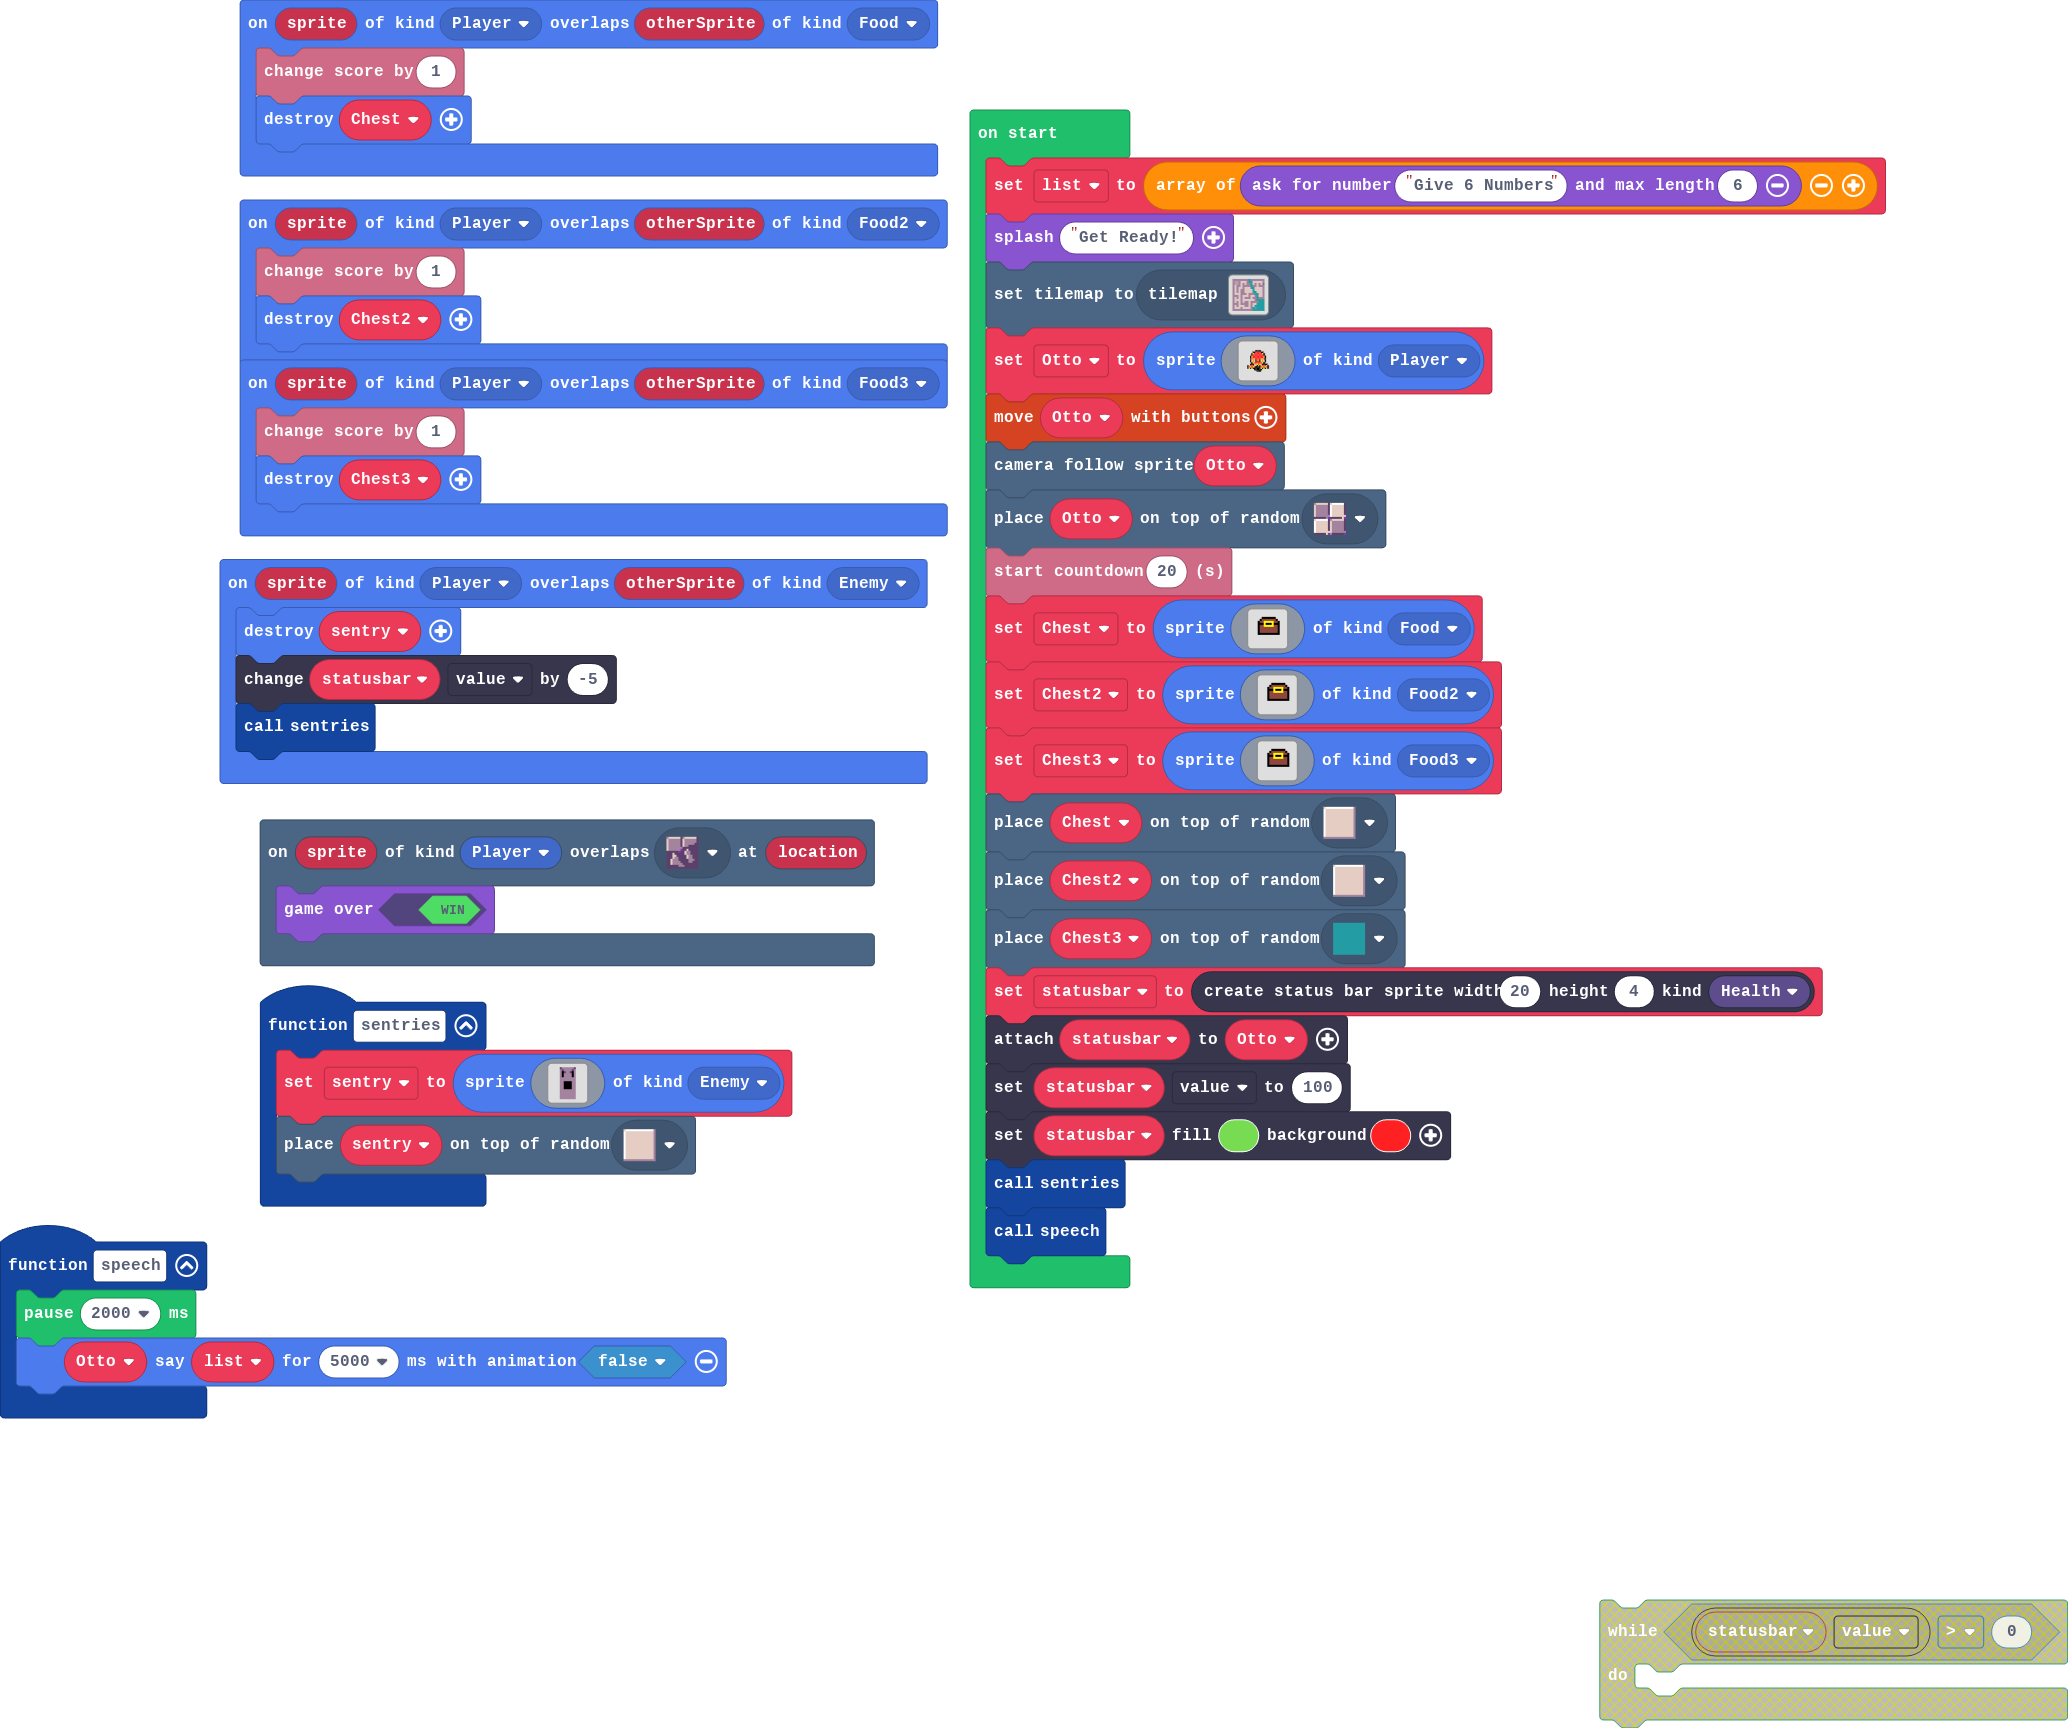
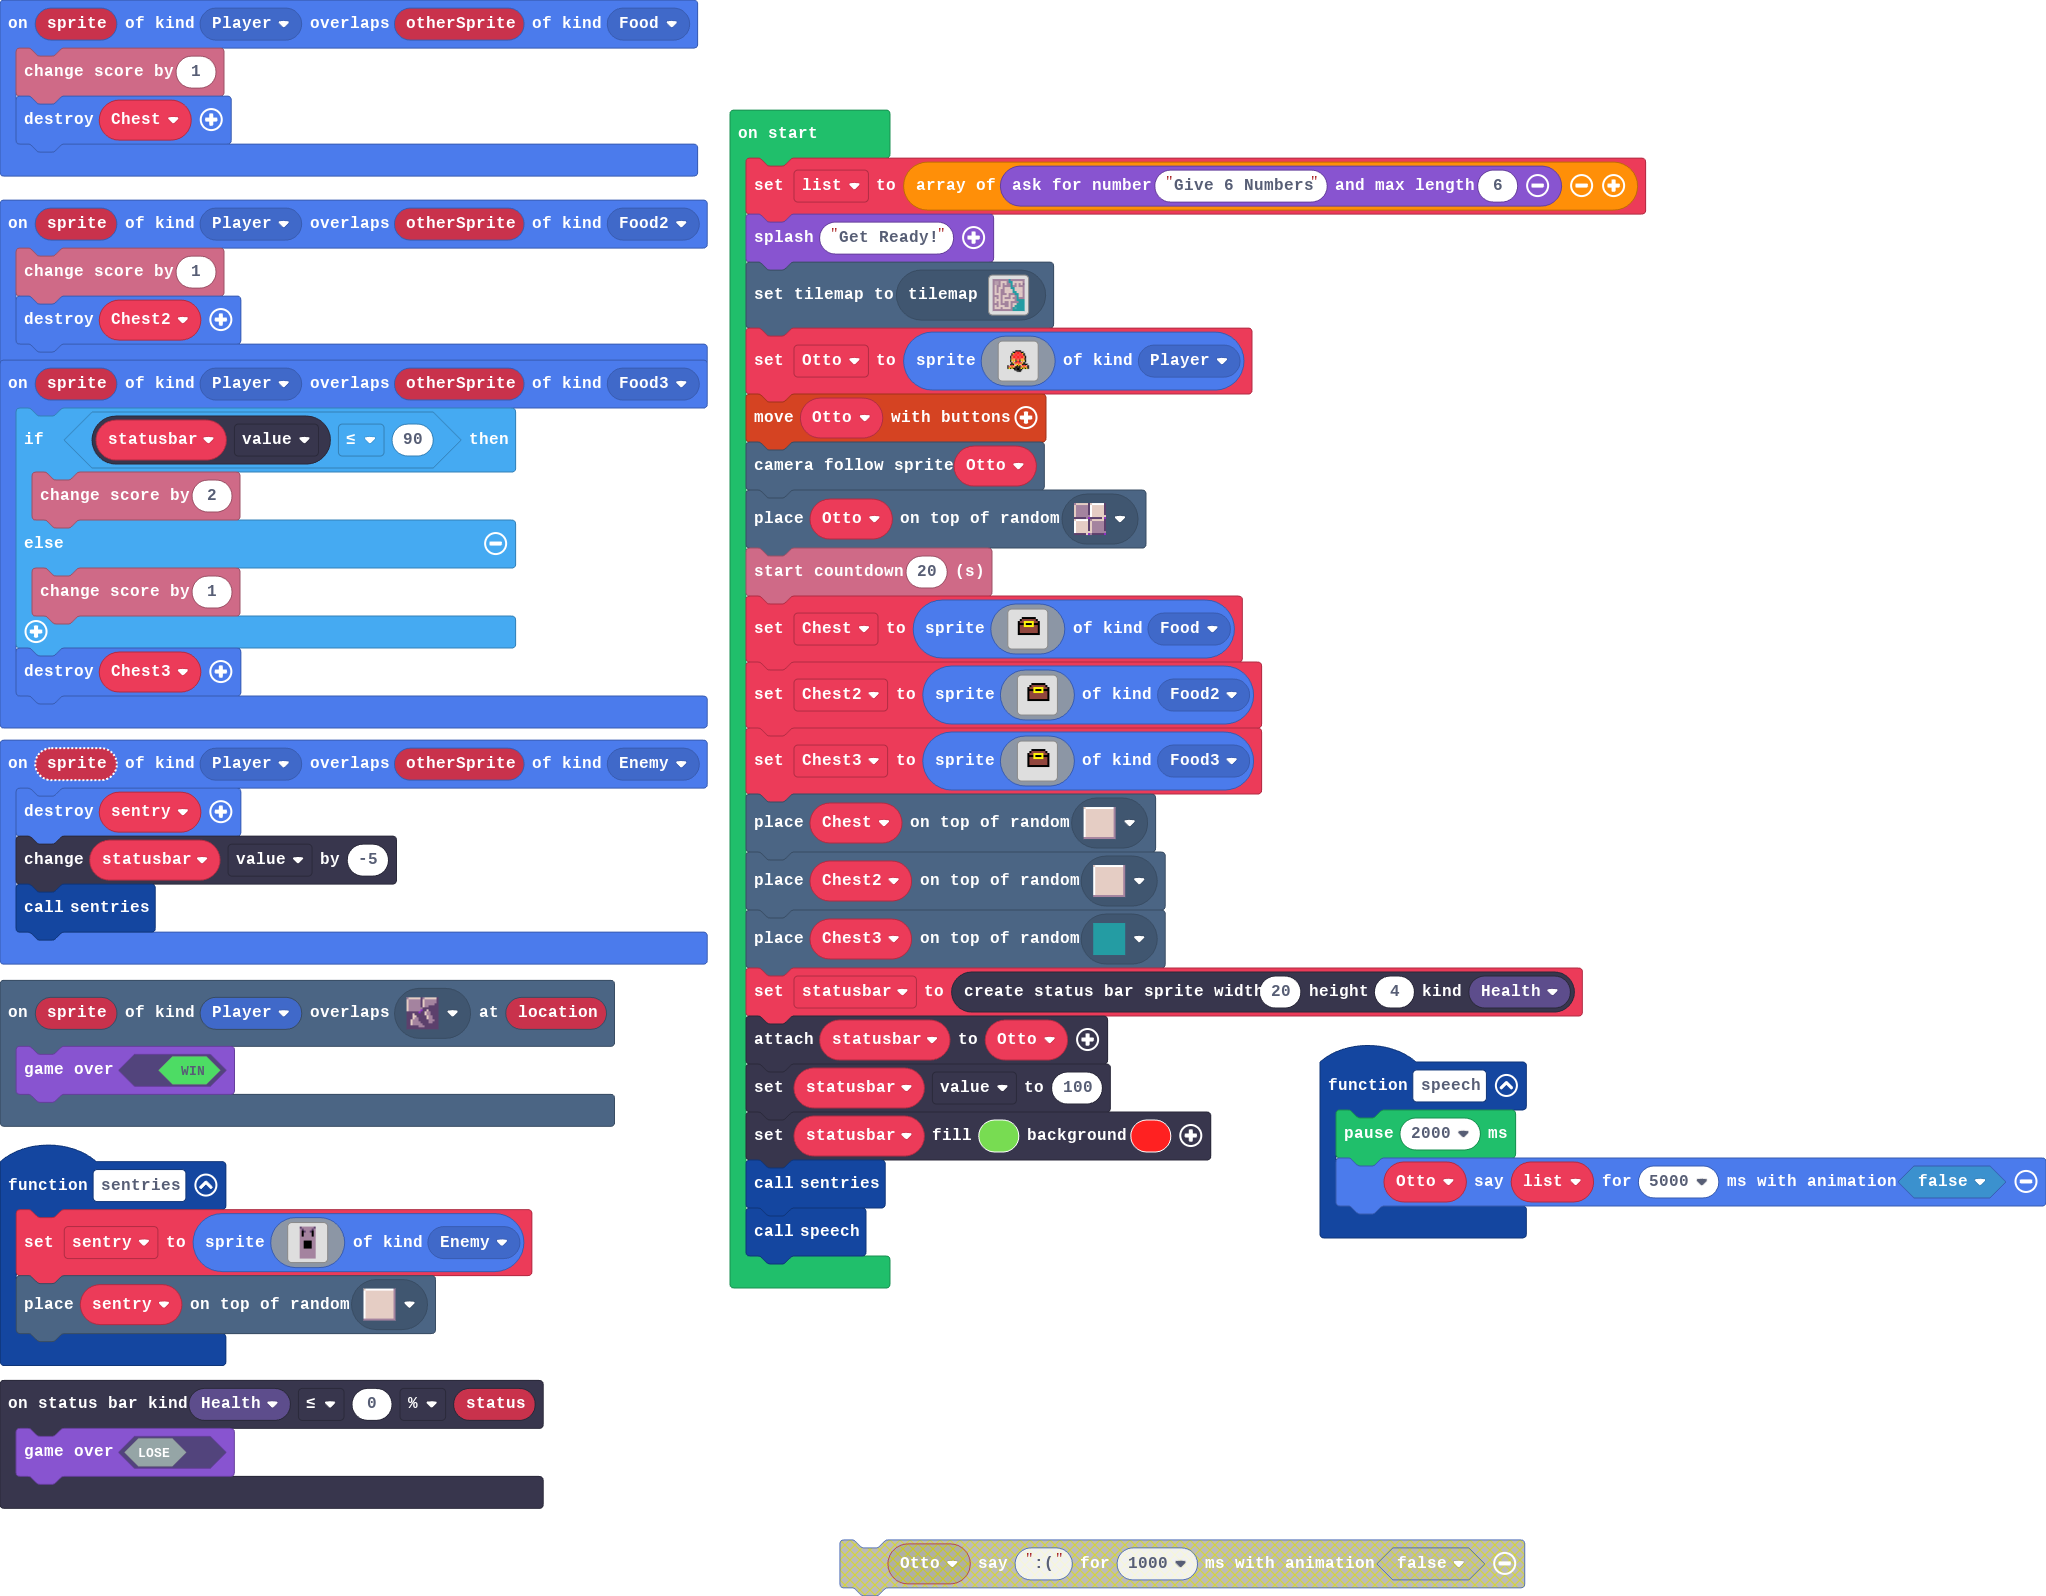
Update main.blocks, main.ts

diff --git a/main.ts b/main.ts
@@ -28,8 +28,15 @@ function speech () {
     Otto.sayText(list, 5000, false)
 }
 sprites.onOverlap(SpriteKind.Player, SpriteKind.Food3, function (sprite, otherSprite) {
-    info.changeScoreBy(1)
+    if (statusbar.value <= 90) {
+        info.changeScoreBy(2)
+    } else {
+        info.changeScoreBy(1)
+    }
     sprites.destroy(Chest3)
+})
+statusbars.onStatusReached(StatusBarKind.Health, statusbars.StatusComparison.LTE, statusbars.ComparisonType.Percentage, 0, function (status) {
+    game.gameOver(false)
 })
 sprites.onOverlap(SpriteKind.Player, SpriteKind.Food, function (sprite, otherSprite) {
     info.changeScoreBy(1)
